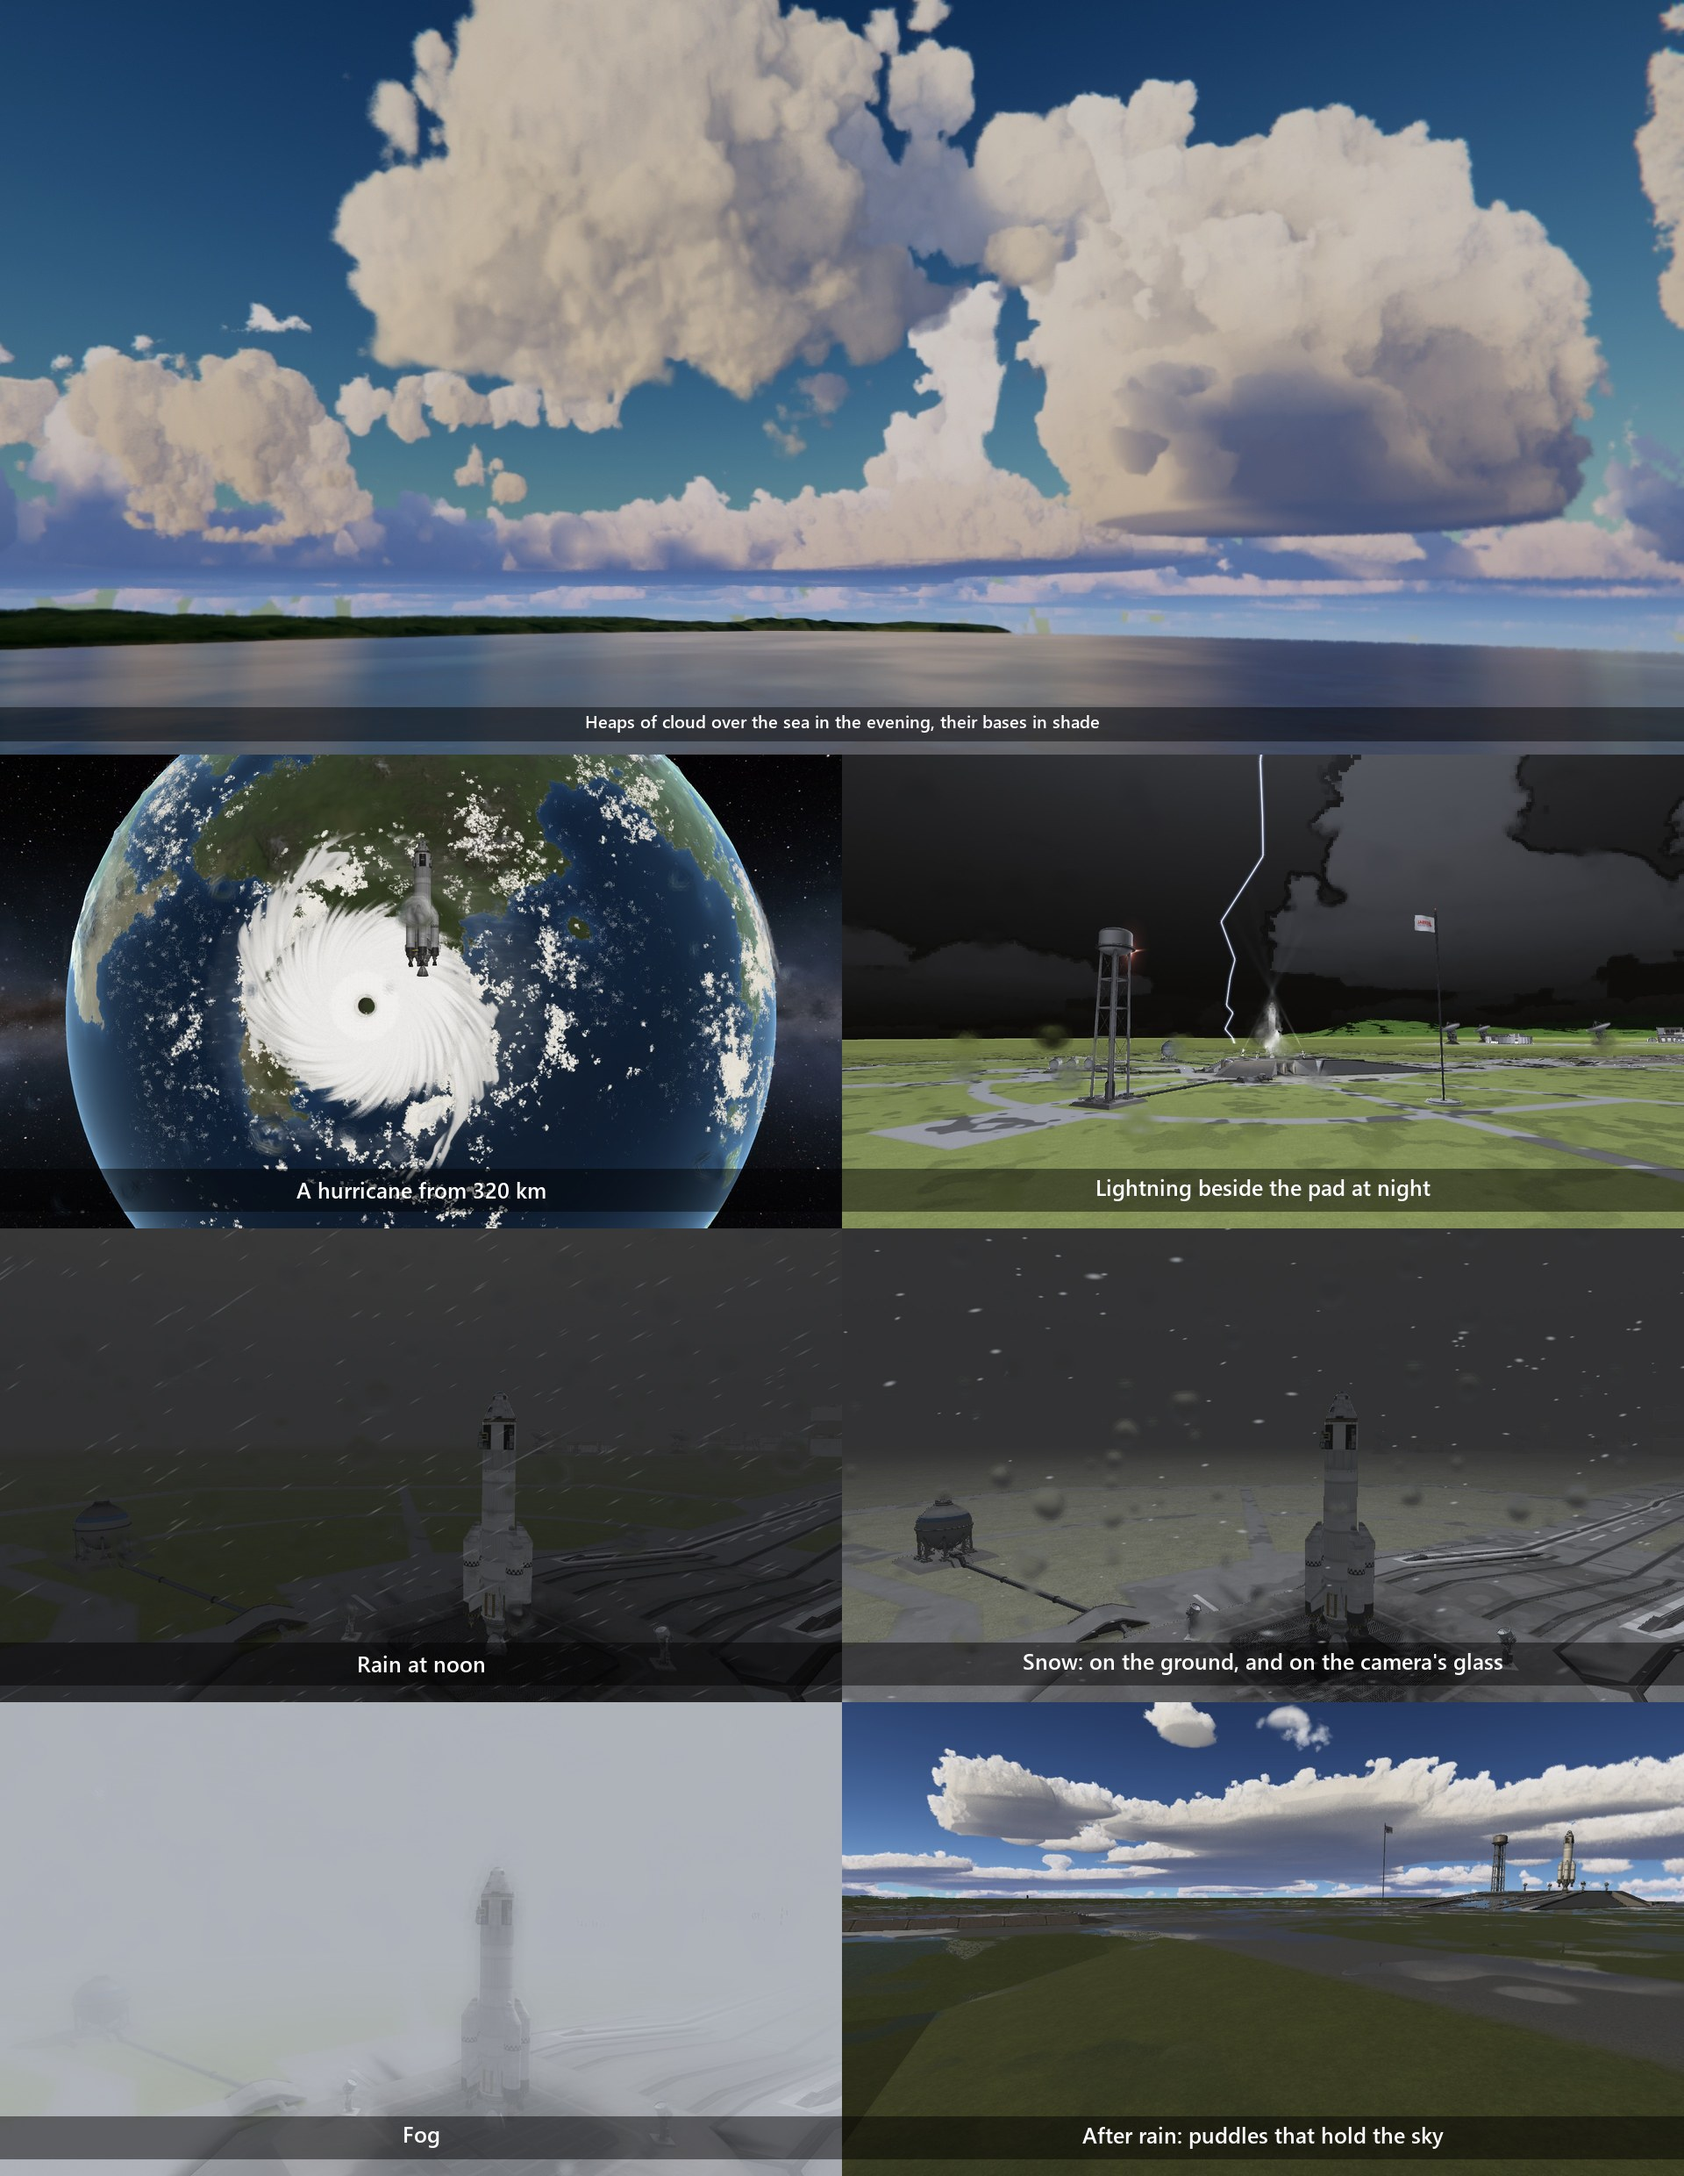
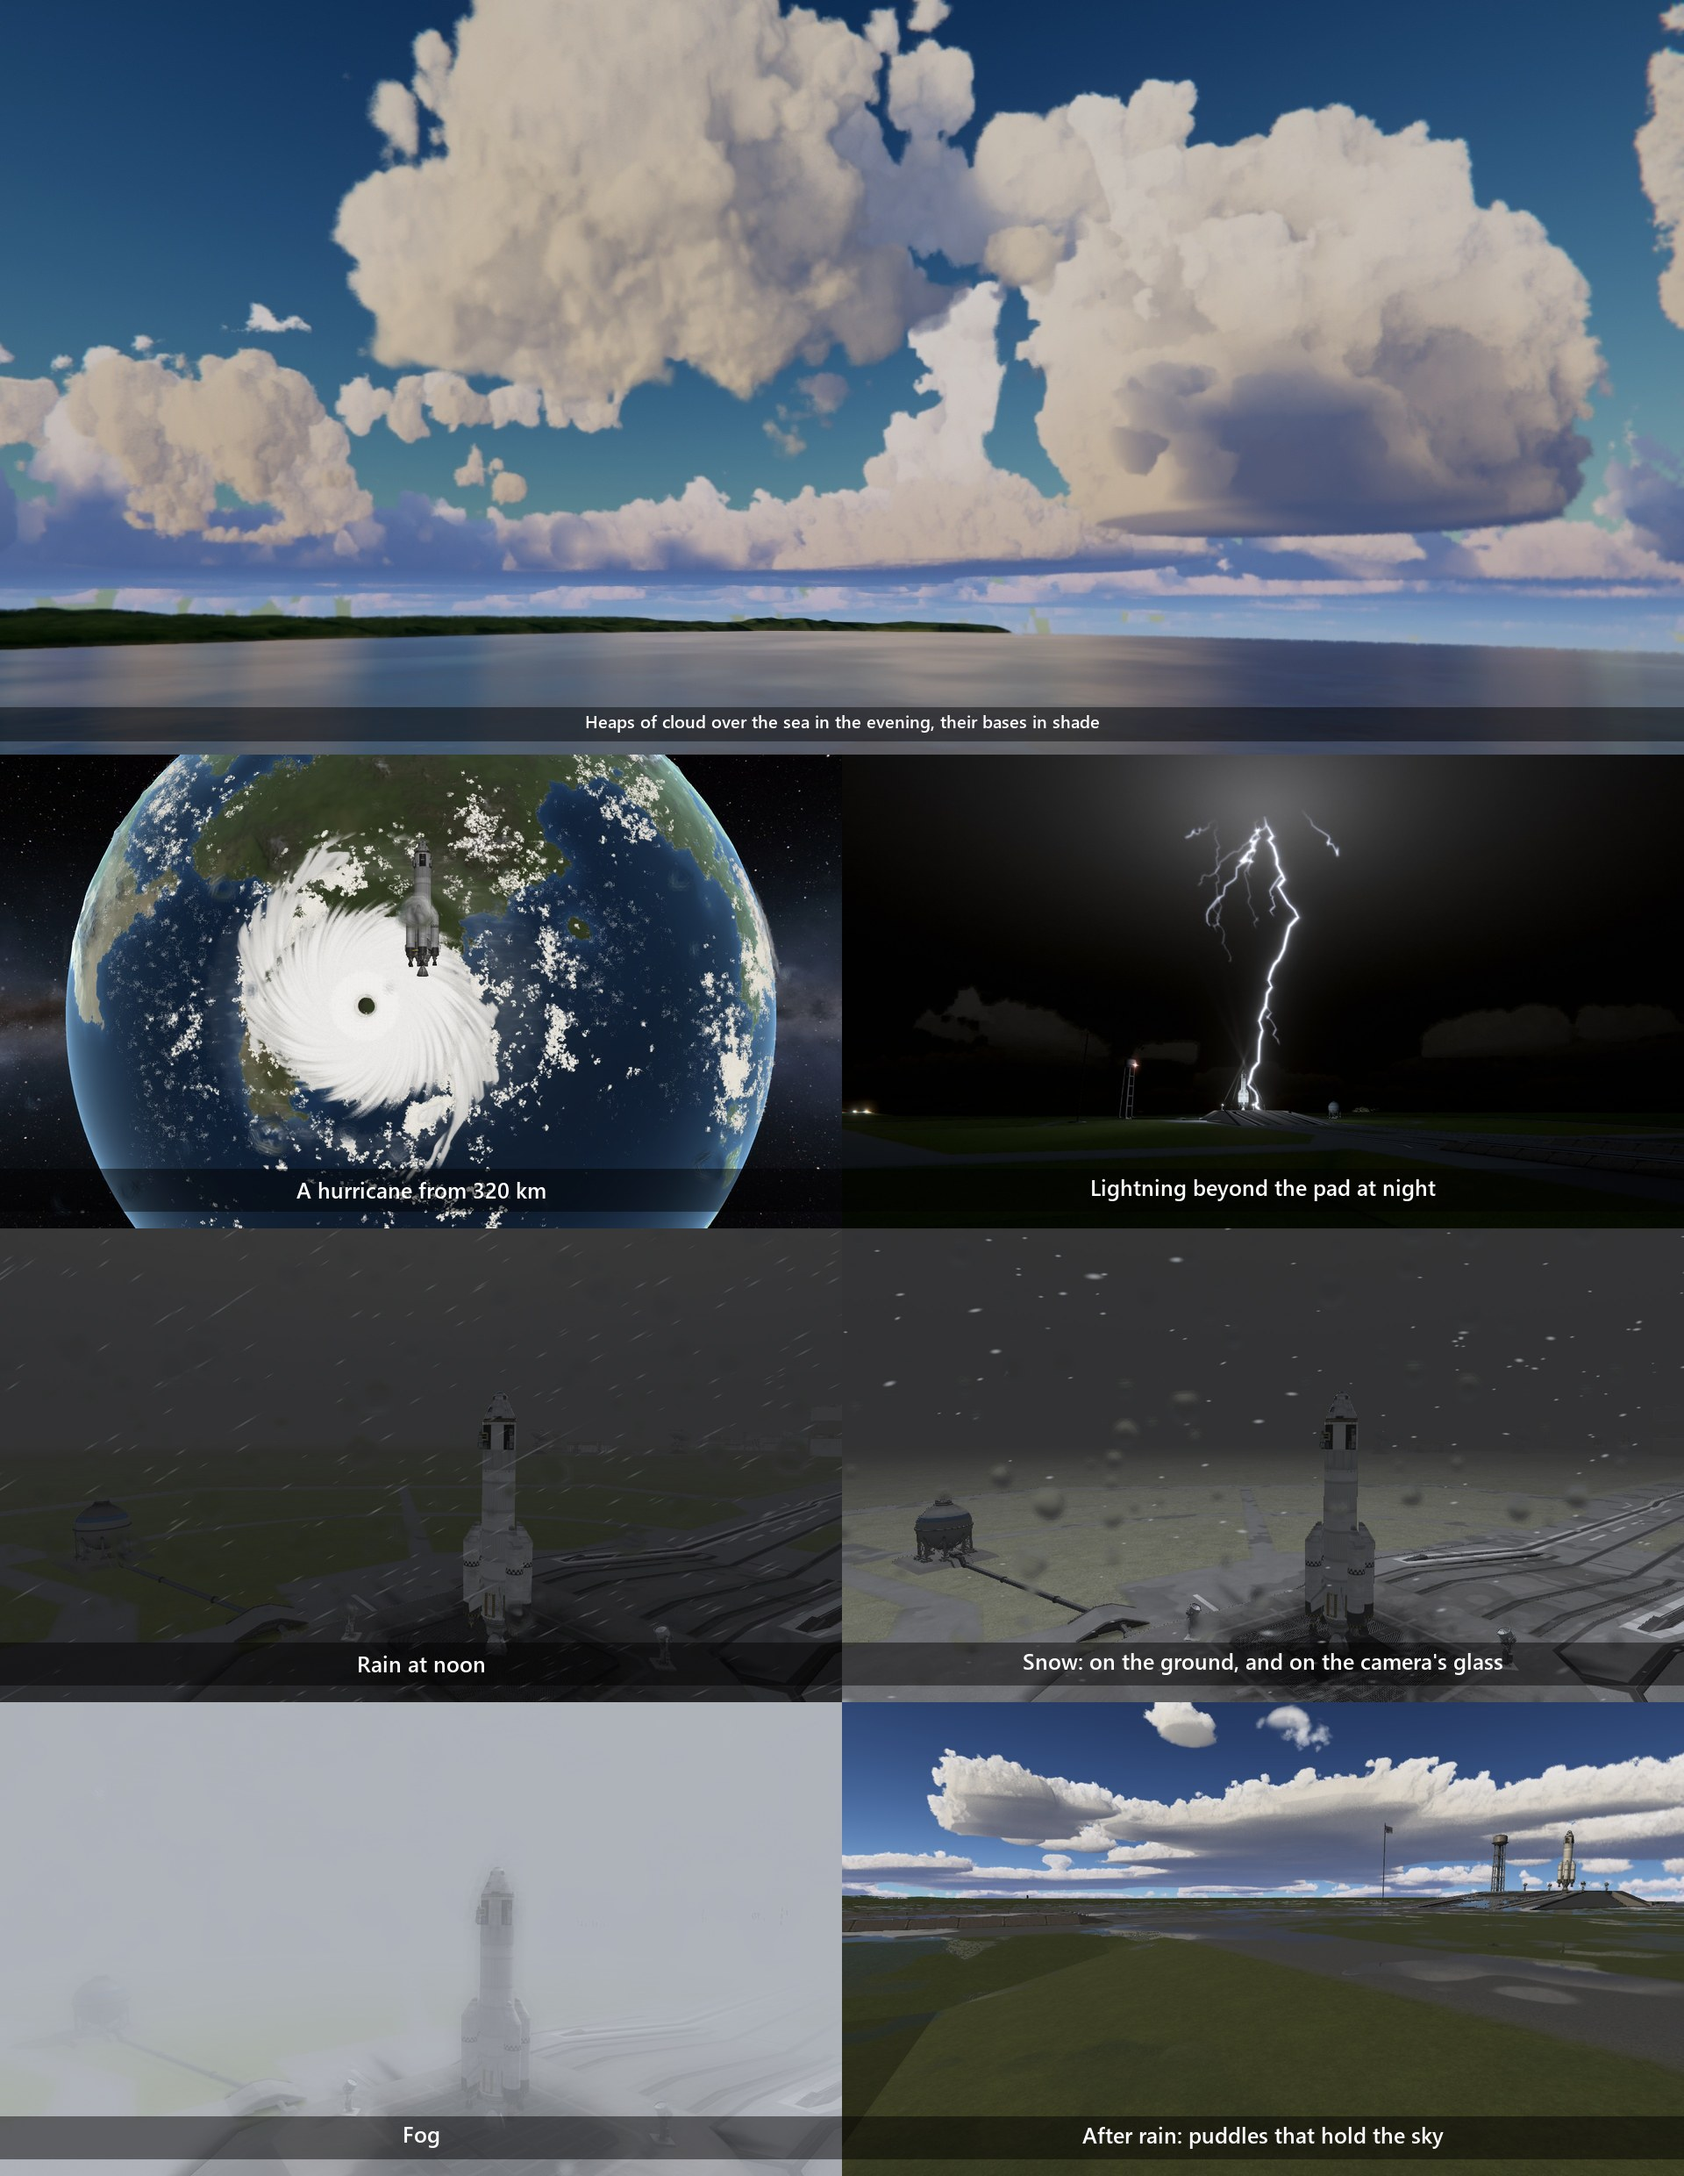
Natural Weather's front picture: a new lightning tile, a stroke 3.5 km beyond the pad at night, taken beside Scatterer and TUFX.

Changed region(s): [[0.5, 0.3415, 1.0, 0.5899], [0.5, 0.3415, 0.5312, 0.3726]]

diff --git a/README.md b/README.md
@@ -3,11 +3,11 @@
 Weather that is seen and felt: wind on craft and smoke, clouds that dim the sun, rain and snow, lightning and
 thunder, fog and dust storms, hurricanes.
 
-![Heaps of cloud over the sea in the evening, their bases in shade; a hurricane from 320 km; lightning by the pad at night; rain; snow; fog; puddles after rain](src/NaturalWeather/img/natural-weather-tour.jpg)
+![Heaps of cloud over the sea in the evening, their bases in shade; a hurricane from 320 km; lightning beyond the pad at night; rain; snow; fog; puddles after rain](src/NaturalWeather/img/natural-weather-tour.jpg)
 
 ![The camera turning at 600 m in the evening, under towering heaps: the coast and the sea](src/NaturalWeather/img/natural-weather-clouds.gif)
 
-The first picture and this loop were taken beside Scatterer and TUFX, which draw the sky's and the sea's haze; the rest with these mods alone.
+The first picture, the lightning and this loop were taken beside Scatterer and TUFX, which draw the sky's and the sea's haze; the rest with these mods alone.
 
 ![Rain on the lens, then a hurricane's gust: the drops torn away, a rocket blown over on the pad, its fire and smoke blown off (the fire is Volumetric Explosions')](src/NaturalWeather/img/natural-weather-storm.gif)
 
